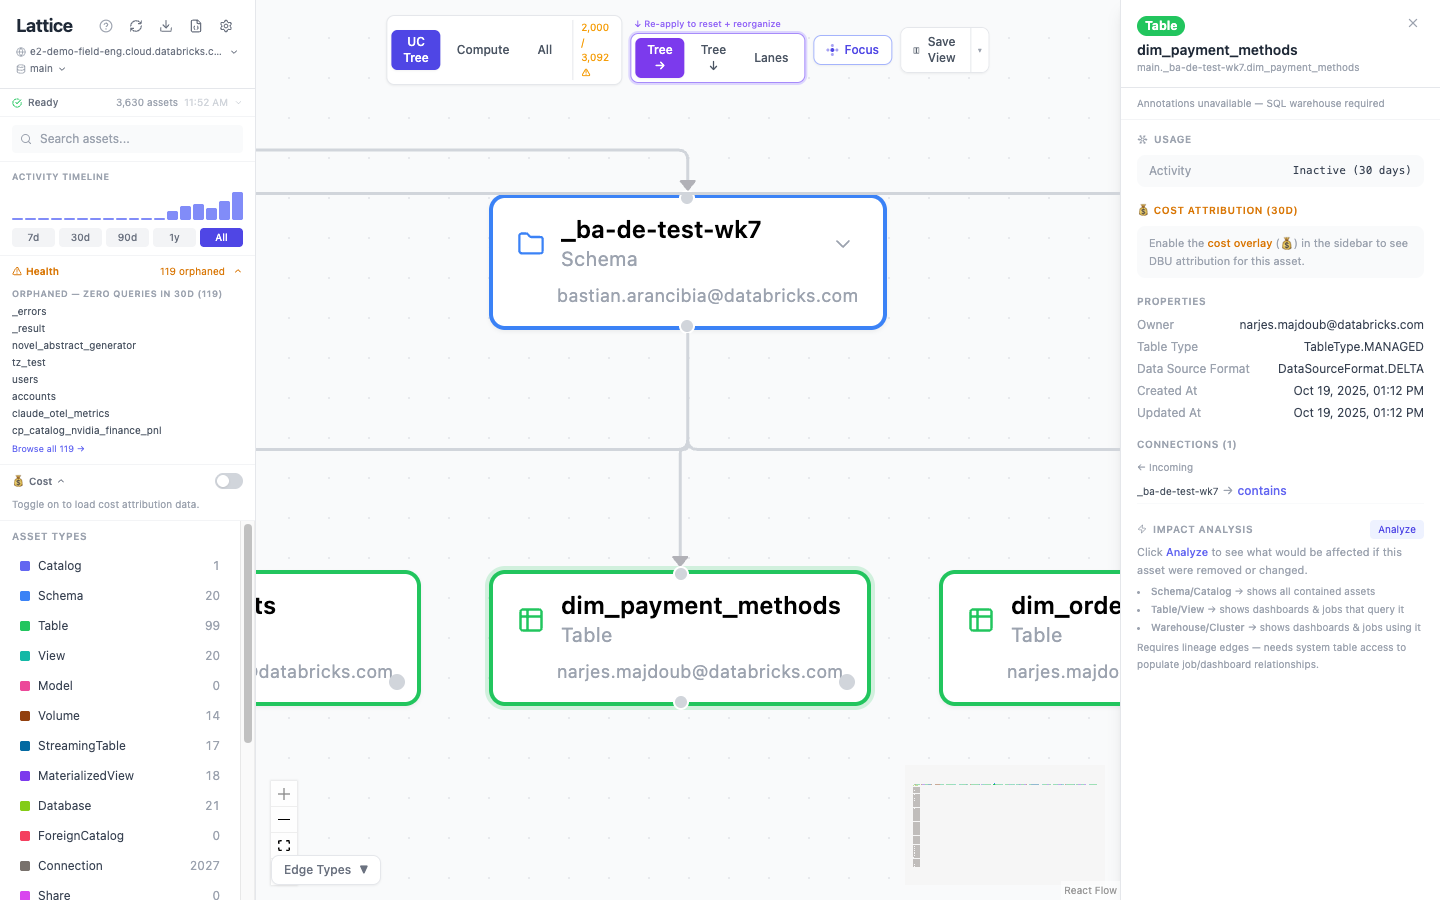
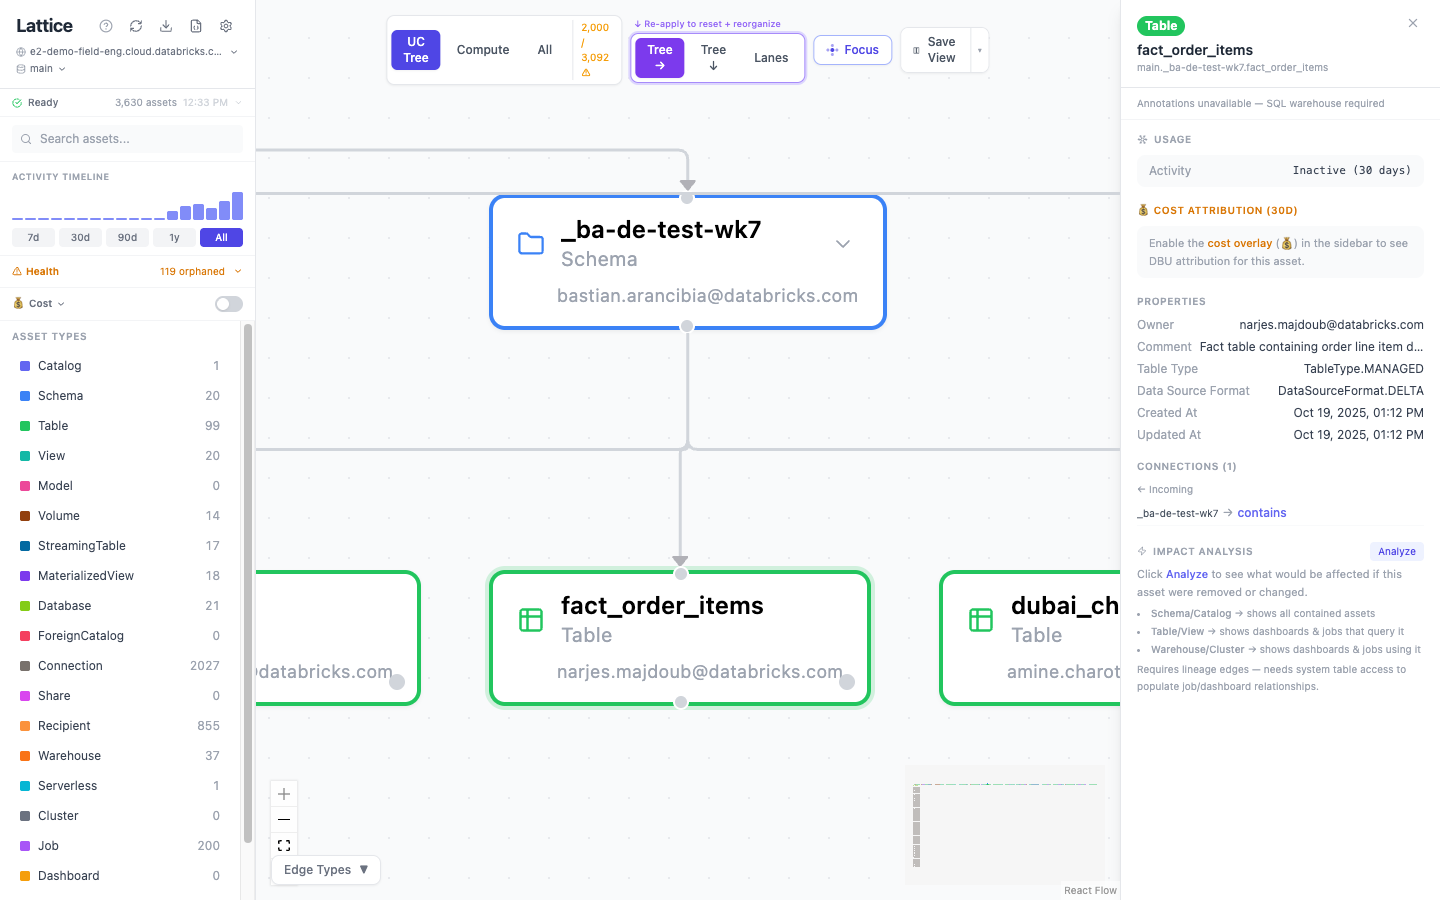
Update Focus View screenshot and add Save View export section
Replaced Focus View with cleaner schema→table connection view.
Added Save View screenshot showing side-by-side comparison pane
with PNG and JSON export buttons.

diff --git a/README.md b/README.md
@@ -72,9 +72,13 @@ Lattice maps all Unity Catalog assets, compute resources, jobs, dashboards, apps
 ![Impact Analysis](docs/screenshots/10-impact-analysis.png)
 *Select any asset and click "Analyze" to see its blast radius — which schemas, apps, dashboards, and jobs depend on it. Essential before making breaking changes.*
 
-### Exploring Neighbors — Focus View
-![Focus Neighbors](docs/screenshots/11-focus-neighbors.png)
-*Click "Focus" on a selected node to see a radial layout of its direct connections — parent schemas, sibling tables, consuming jobs, and dashboards.*
+### Exploring Connections — Focus View
+![Focus View](docs/screenshots/11-focus-neighbors.png)
+*Select any asset and click "Focus" to isolate it and its direct connections on the canvas — parent schema above, sibling tables below, all linked by relationship edges. Ideal for understanding what an asset connects to without the noise of the full graph.*
+
+### Save View — Export PNG & JSON Snapshots
+![Save View](docs/screenshots/15-save-view.png)
+*Click "Save View" to freeze the current canvas into a side-by-side comparison pane. Export as high-resolution PNG (4x) for presentations or JSON for programmatic analysis. Compare before/after views of your architecture.*
 
 ### Detecting Orphaned Assets — Health Panel
 ![Health Panel](docs/screenshots/09-health-orphans.png)
